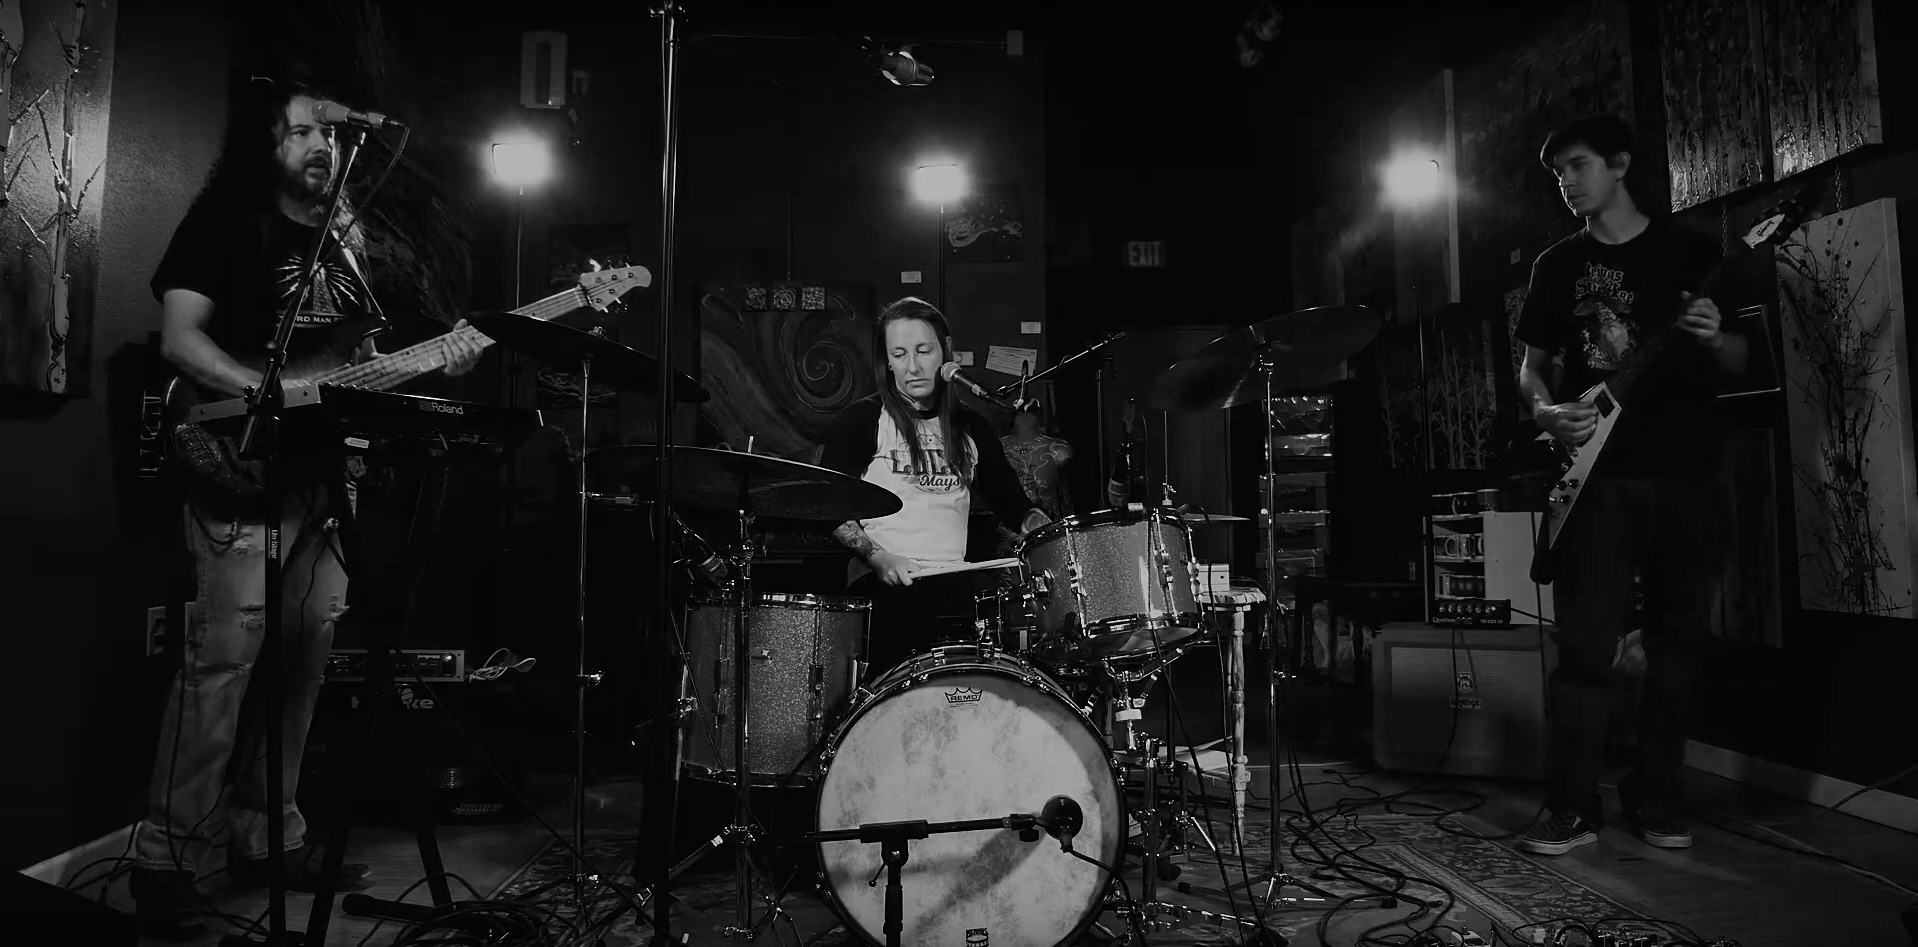
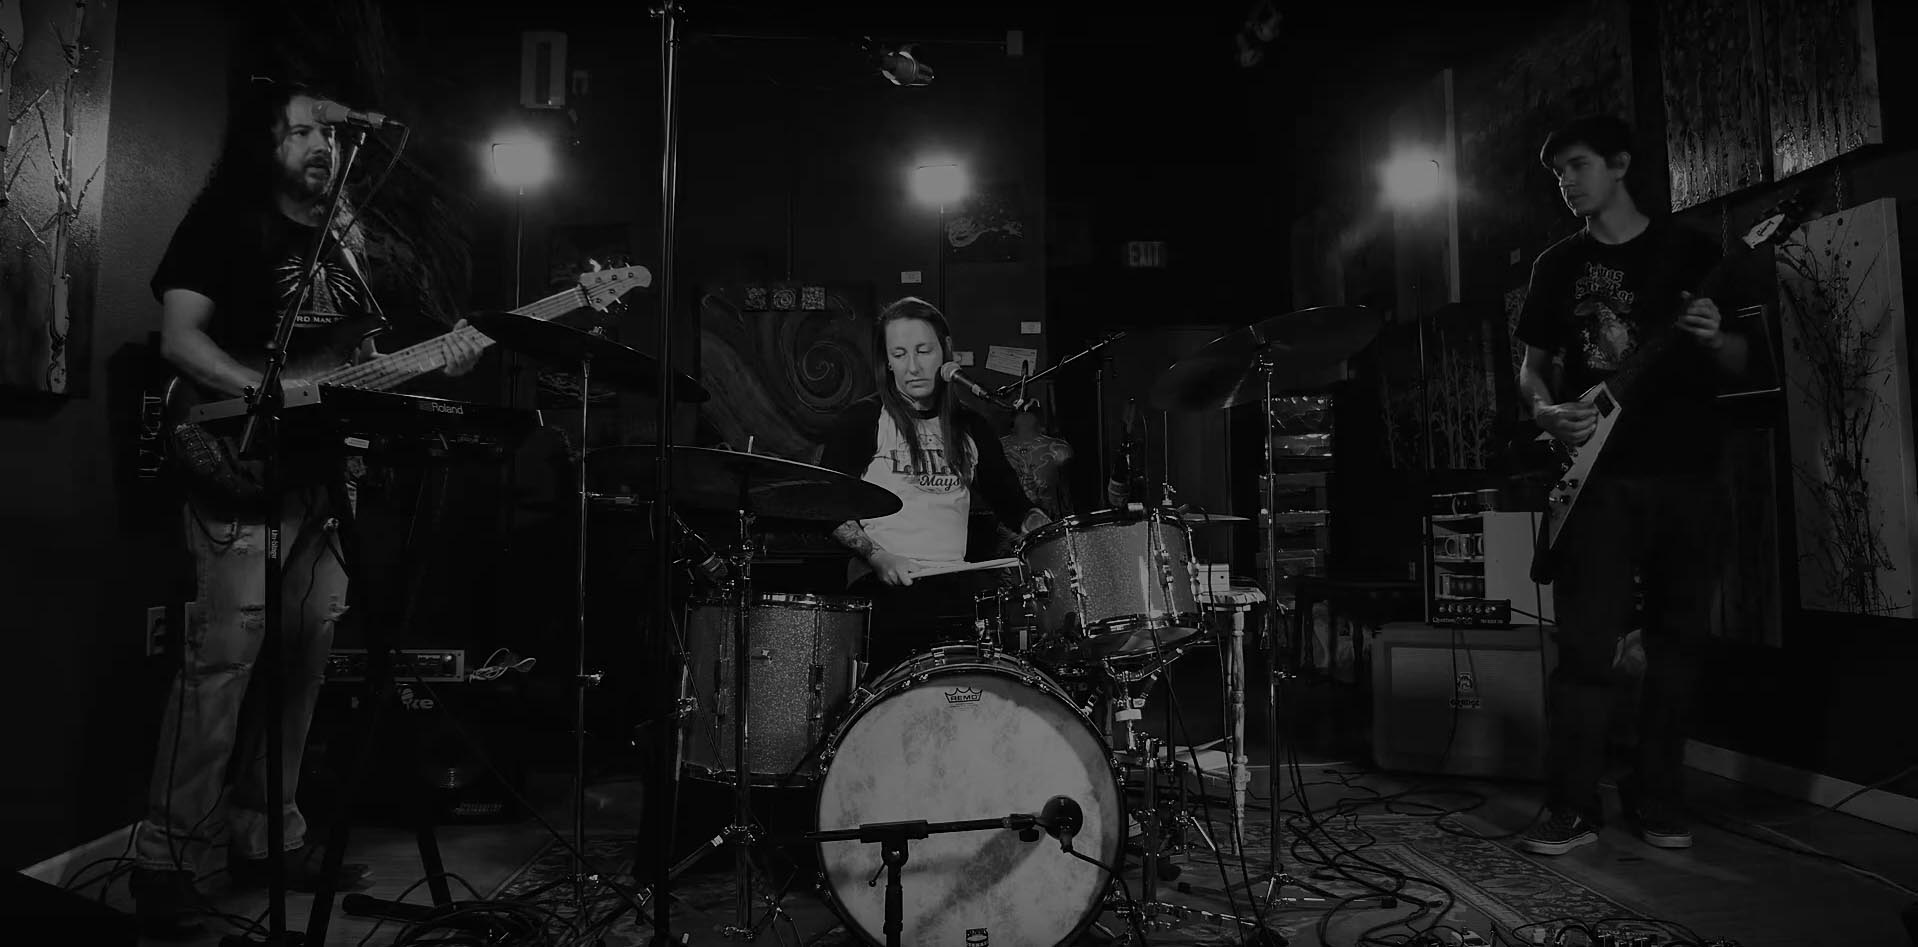
Tweaks
Updated favicon, apple-touch-icon, made the footer darker

diff --git a/_layouts/default.html b/_layouts/default.html
@@ -13,7 +13,13 @@
 {% endif %}
 
 <link rel="stylesheet" href="https://use.typekit.net/jki0pae.css" />
+
 <link rel="icon" href="/favicon.ico">
+<link rel="icon" href="/favicon.png">
+<link rel="icon" href="/favicon.svg" type="image/svg+xml">
+<link rel="apple-touch-icon" href="/apple-touch-icon.png">
+<link rel="manifest" href="/my.webmanifest">
+<meta name="theme-color" content="#FF00FF">
 
 {% if site.plugins contains "jekyll-feed" %}<link rel="alternate" href="{{ site.feed.path | default: "/feed.xml" | relative_url }}" type="application/atom+xml" title="{{ site.title }}">{% endif %}
 {% if page.mathjax or site.mathjax %}
@@ -40,7 +46,7 @@
 
 {% if site.external %}
 <footer>
-  <div>{{ site.description | default: site.title }}</div>
+  <div><small>{{ site.description | default: site.title }}</small></div>
   {% include menu.html menu=site.external %}
 </footer>
 {% endif %}

diff --git a/_sass/layout.sass b/_sass/layout.sass
@@ -1,3 +1,6 @@
+html
+  background: #000
+
 body
   display: flex
   flex-direction: column
@@ -27,3 +30,6 @@ nav
 nav a
   margin: .5em 1.2em
   font-weight: $heading-weight
+
+body > footer
+  background: rgba(0,0,0,0.1)

diff --git a/_sass/classes.sass b/_sass/classes.sass
@@ -6,9 +6,6 @@
   font-family: ivypresto-headline, Georgia, serif
   font-size: 1.4em
 
-.title
-  font-size: 1.25em
-
 .more
   margin: 2em 0 1em
 
